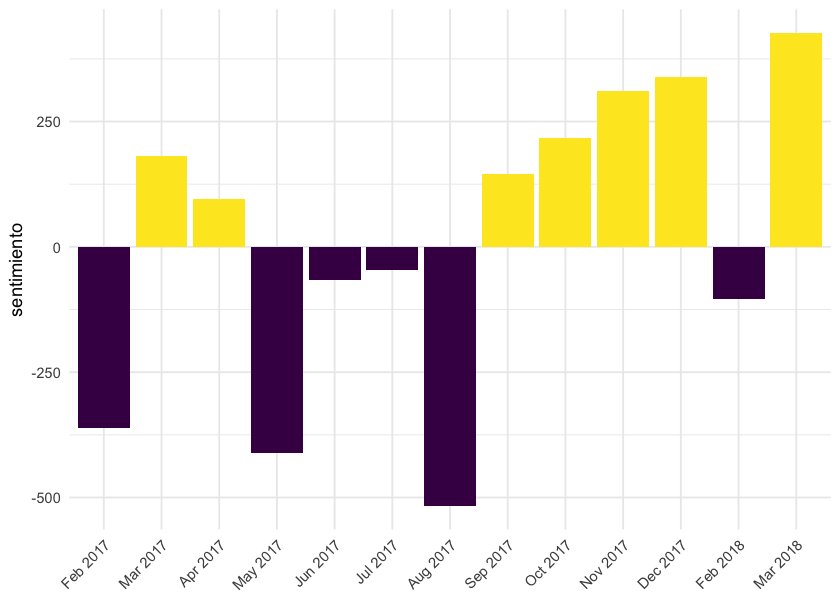
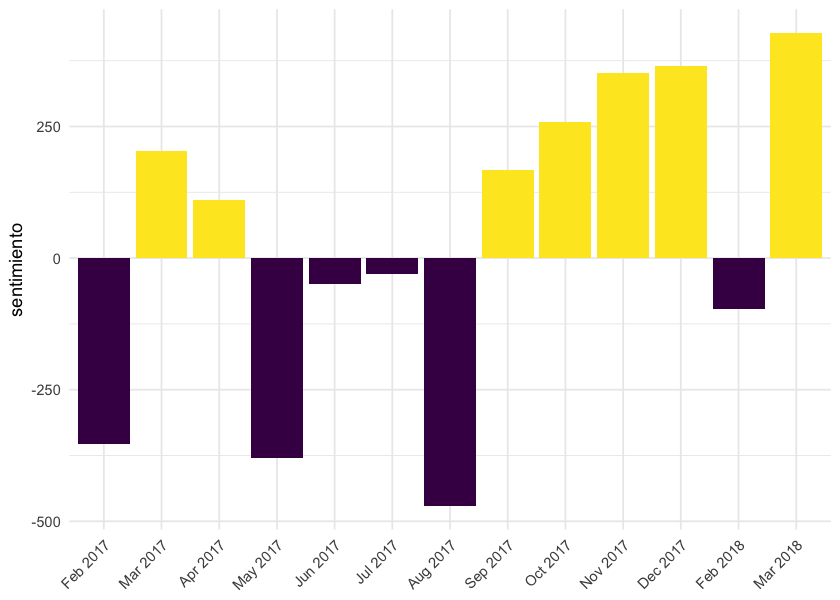
Fixed typos and add "negro" to stopwords, classified as a negative word 😡

diff --git a/_posts/2018-04-08-de-qué-se-habló-en-el-parlamento-uruguayo-desde-2017.md b/_posts/2018-04-08-de-qué-se-habló-en-el-parlamento-uruguayo-desde-2017.md
@@ -133,7 +133,7 @@ Además en las sesiones de senadores se habló menos (probablemente sean más co
 
 Las palabras más comúnes de todas las sesiones de ambas Cámaras son las que aparecen a continuación (como siempre, muestro el código para Diputados, y para Senadores es análogo).
 
-Para contar palabras, es buena práctica sacar las palabras comúnes como "y", "el", "es", comúnmente llamadas "stopwords". No hay tantos diccionarios disponibles para español como para inglés, pero algunos hay! Acá voy a usar las stopwords incluidas en el parquete `rcorpora` para español.
+Para contar palabras, es buena práctica sacar las palabras comúnes como "y", "el", "es", comúnmente llamadas "stopwords". No hay tantos diccionarios disponibles para español como para inglés, pero algunos hay! Acá voy a usar las stopwords incluidas en el paquete `rcorpora` para español.
 
 Las palabras más usadas en las Sesiones de Diputados:
 
@@ -177,7 +177,7 @@ No nos dice mucho esta información: son palabras que protocolarmente se utiliza
 
 # Análisis de Sentimiento
 
-Me costó un poquito más encontrar un diccionario en español que tuviera sentimiento, pero [encontré este que es el que voy a estar usando](http://web.eecs.umich.edu/~mihalcea/downloads/SpanishSentimentLexicons.tar.gz).
+Me costó un poquito más encontrar un diccionario en español que tuviera sentimiento, pero [encontré este que es el que voy a usar](http://web.eecs.umich.edu/~mihalcea/downloads/SpanishSentimentLexicons.tar.gz).
 
 Levanto el diccionario, que llamo `lexicon` (lo levanto de mi repositorio de GitHub para asegurarme de que siempre esté disponible).
 
@@ -221,11 +221,11 @@ tidy_diputados %>%
 
 <img src="/figure/source/de-qué-se-habló-en-el-parlamento-uruguayo-desde-2017/2018-04-08-de-qué-se-habló-en-el-parlamento-uruguayo-desde-2017/unnamed-chunk-3-1.png" style="display: block; margin: auto;" />
 
-Hay algunas palabras que aparecen con una carga de sentimiento que, dado el contexto, no es apropiado que la tengan. Por ejemplo: "consideracion", "especial" o "atención". Así que las agrego como stopwords así no las considero.
+Hay algunas palabras que aparecen con una carga de sentimiento que, dado el contexto, no es apropiado que la tengan. Por ejemplo: "consideracion", "especial" o "atención". Y otras con las que no estoy de acuerdo, como que la palabra "negro" esté clasificada como negativa. Así que las agrego como stopwords así no las considero.
 
 
 ```r
-stopwords_personalizadas <- c(stopwords, "discusion", "atento", "consideracion",
+stopwords_personalizadas <- c(stopwords, "negro", "discusion", "atento", "consideracion",
                               "especial", "dicha", "facultades", "atencion", "asunto")
 
 tidy_diputados <- diputados %>%
@@ -292,7 +292,7 @@ Para senadores:
 
 <img src="/figure/source/de-qué-se-habló-en-el-parlamento-uruguayo-desde-2017/2018-04-08-de-qué-se-habló-en-el-parlamento-uruguayo-desde-2017/unnamed-chunk-7-1.png" style="display: block; margin: auto;" />
 
-Para las sesiones de Senadores no se observa un comportamiento similar al de las de Diputados.
+Para las sesiones de Senadores no se observa un comportamiento similar al de las de Diputados 🤷🏾
 
 # Sentimiento en las distintas sesiones
 
@@ -330,15 +330,15 @@ knitr::kable(
 <tbody>
   <tr>
    <td style="text-align:left;"> 2018-03-06_2 </td>
-   <td style="text-align:right;"> 178 </td>
+   <td style="text-align:right;"> 177 </td>
    <td style="text-align:right;"> 436 </td>
-   <td style="text-align:right;"> 258 </td>
+   <td style="text-align:right;"> 259 </td>
   </tr>
   <tr>
    <td style="text-align:left;"> 2017-12-20_1 </td>
-   <td style="text-align:right;"> 381 </td>
+   <td style="text-align:right;"> 379 </td>
    <td style="text-align:right;"> 577 </td>
-   <td style="text-align:right;"> 196 </td>
+   <td style="text-align:right;"> 198 </td>
   </tr>
 </tbody>
 </table>
@@ -373,15 +373,15 @@ knitr::kable(
 <tbody>
   <tr>
    <td style="text-align:left;"> 2017-05-10_14 </td>
-   <td style="text-align:right;"> 903 </td>
+   <td style="text-align:right;"> 894 </td>
    <td style="text-align:right;"> 406 </td>
-   <td style="text-align:right;"> -497 </td>
+   <td style="text-align:right;"> -488 </td>
   </tr>
   <tr>
    <td style="text-align:left;"> 2017-02-15_3 </td>
-   <td style="text-align:right;"> 890 </td>
+   <td style="text-align:right;"> 882 </td>
    <td style="text-align:right;"> 529 </td>
-   <td style="text-align:right;"> -361 </td>
+   <td style="text-align:right;"> -353 </td>
   </tr>
 </tbody>
 </table>
@@ -401,21 +401,15 @@ Las sesiones con sentimientos más positivos son las que aparecen a continuació
 <tbody>
   <tr>
    <td style="text-align:left;"> 2017-05-16_15 </td>
-   <td style="text-align:right;"> 57 </td>
+   <td style="text-align:right;"> 56 </td>
    <td style="text-align:right;"> 171 </td>
-   <td style="text-align:right;"> 114 </td>
+   <td style="text-align:right;"> 115 </td>
   </tr>
   <tr>
-   <td style="text-align:left;"> 2017-05-09_12 </td>
-   <td style="text-align:right;"> 46 </td>
-   <td style="text-align:right;"> 104 </td>
-   <td style="text-align:right;"> 58 </td>
-  </tr>
-  <tr>
-   <td style="text-align:left;"> 2017-08-02_27 </td>
-   <td style="text-align:right;"> 102 </td>
-   <td style="text-align:right;"> 160 </td>
-   <td style="text-align:right;"> 58 </td>
+   <td style="text-align:left;"> 2017-11-28_44 </td>
+   <td style="text-align:right;"> 267 </td>
+   <td style="text-align:right;"> 343 </td>
+   <td style="text-align:right;"> 76 </td>
   </tr>
 </tbody>
 </table>
@@ -434,9 +428,9 @@ Y las que tienen sentimiento más negativo las siguientes.
 <tbody>
   <tr>
    <td style="text-align:left;"> 2017-09-18_32 </td>
-   <td style="text-align:right;"> 637 </td>
+   <td style="text-align:right;"> 633 </td>
    <td style="text-align:right;"> 387 </td>
-   <td style="text-align:right;"> -250 </td>
+   <td style="text-align:right;"> -246 </td>
   </tr>
   <tr>
    <td style="text-align:left;"> 2017-06-07_18 </td>
